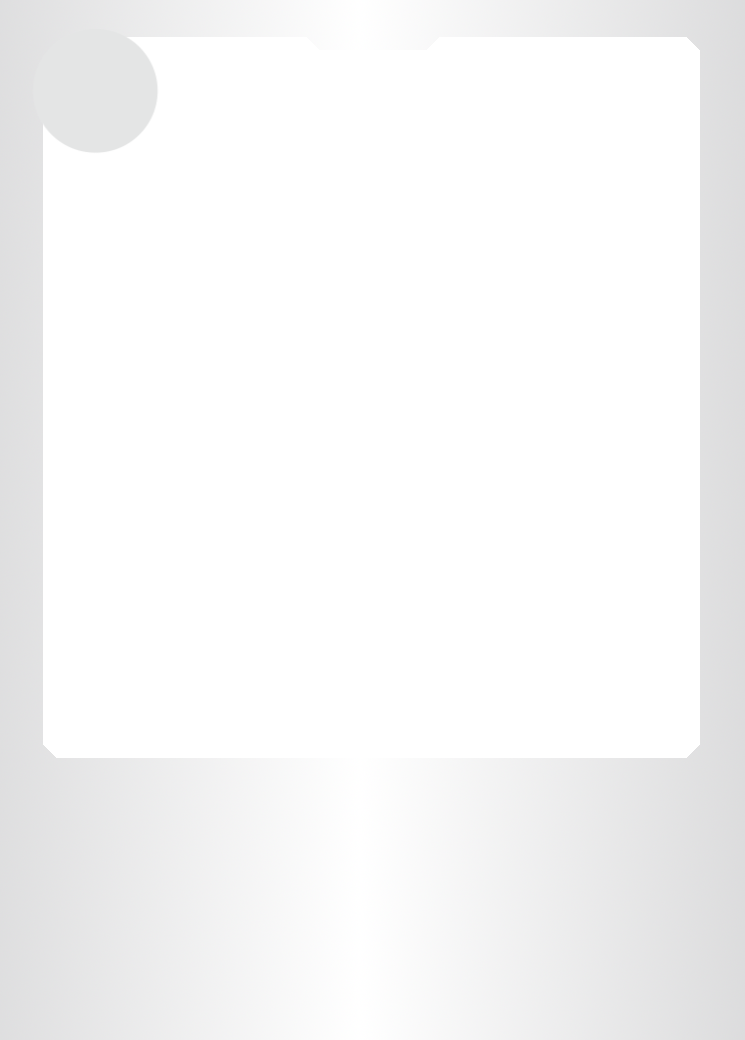
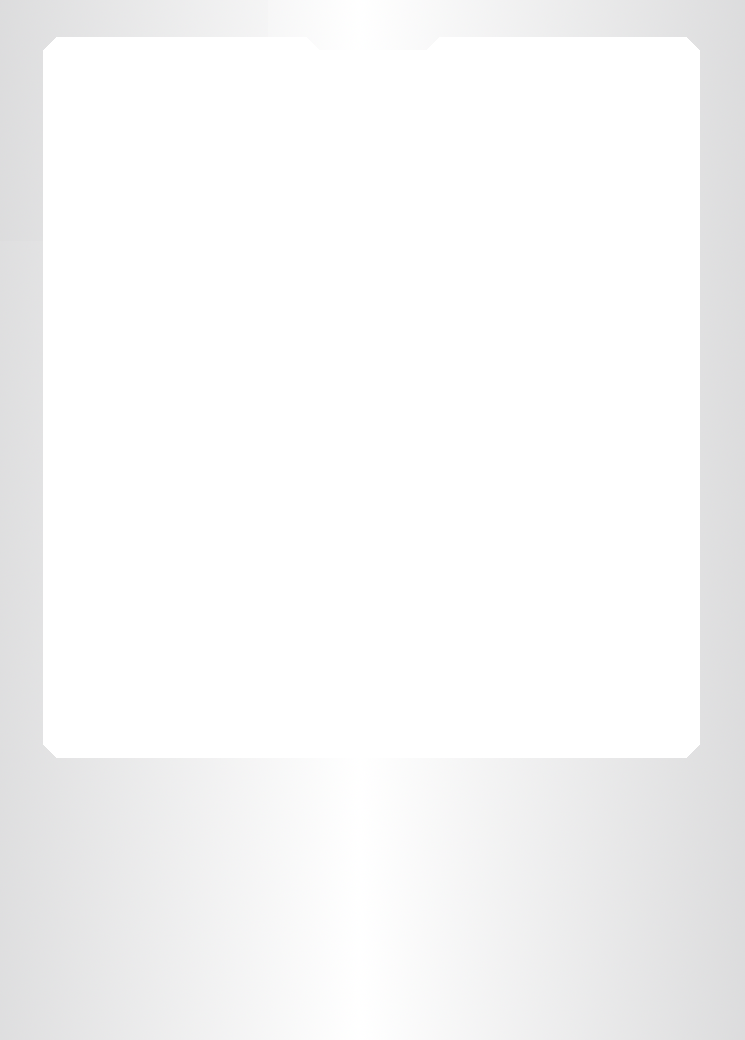
v0.8.8 no cost frames and restore images for samples

Changed region(s): [[0.0309, 0.0308, 0.2161, 0.1538]]

diff --git a/src/CustomCreator.js b/src/CustomCreator.js
@@ -1,12 +1,15 @@
 import React, { useRef, useState, useCallback, useEffect, useMemo } from 'react';
 import { eggs, basics, options, tamers, colorReplace } from './images';
 import {
-  //nocost_background, 
+
   mon_background, mega_background, egg_background, option_background, tamer_background,
+  mon_background_nocost, mega_background_nocost, egg_background_nocost, option_background_nocost, tamer_background_nocost,
+
   ace_backgrounds,
-  outlines, outlines_egg,
-  //outlines_nocost, 
-  outlines_tamer, outline_option,
+  outlines,
+  outlines_nocost, 
+  outlines_tamer, outline_option, outlines_egg,
+  outlines_tamer_nocost, outline_option_nocost, outlines_egg_nocost,
 
   cost, cost_egg, cost_option, cost_evo, cost_evo_plain, costs,
   ace_logo, foil, linkdp,
@@ -52,9 +55,10 @@ import JSZip from 'jszip';
 import { saveAs } from 'file-saver';
 
 
-const version = "0.8.7.1"
-const latest = "better show all"
+const version = "0.8.8"
+const latest = "no cost outlines for many things, kind of buggy"
 
+// version 0.8.8    no cost outlines for many things, kind of buggy
 // version 0.8.7.x  better show all
 // version 0.8.6    load images as we walk through the array
 // version 0.8.5    load images up again (but only for first image in array)
@@ -783,23 +787,29 @@ function CustomCreator() {
   const loadNetImages = async (imageOptions) => {
     let id;
     let img_args = [];
-    if ((id = imageOptions.background_url)) {
-      if (id !== (backImg && backImg.id))
+    let bgid = backImg && backImg.id;
+    if (bgid === '2') {
+      // nothing
+    } else if ((id = imageOptions.background_url)) {
+      console.error(790, bgid);
+      if (id !== bgid)
         img_args.push("background=" + imageOptions.background_url);
     } else {
-      if (backImg && backImg.src && !backImg.src.includes("placeholder")) {
+      if (backImg && backImg.src
+        && !backImg.src.includes("placeholder")) {
+        console.error(795, backImg.id);
         const img = new Image();
         img.src = placeholder;
         img.onload = () => {
           setBackImg(img);
         };
       }
-
-      //   if (backImg) 
-      //   setBackImg(null);
     }
-    if ((id = imageOptions.foreground_url)) {
-      if (id !== (foreImg && foreImg.id))
+    let fgid = foreImg && foreImg.id;
+    if (fgid === '1') { 
+        // nothing
+    } else if ((id = imageOptions.foreground_url)) {
+      if (id !== fgid)
         img_args.push("foreground=" + imageOptions.foreground_url);
     } else {
       if (foreImg)
@@ -1273,6 +1283,7 @@ function CustomCreator() {
 
       const img = new Image();
       img.src = img_src;
+      img.id = 1;
       img.onload = () => {
         console.error("foreground");
         setForeImg(img);
@@ -1281,6 +1292,7 @@ function CustomCreator() {
     if (back_src) {
       console.error("settings back");
       const img2 = new Image();
+      img2.id = 2;
       img2.src = back_src;
       img2.onload = () => {
         console.error(901, img2);
@@ -1373,11 +1385,13 @@ function CustomCreator() {
     }
 
     let modern = 1;
+    const has_cost = (json.playCost >= 0);
+    // TODO: make cost an array to avoid inline trinaries
 
     let t;
     let array = basics;
-    let cardframes = [mon_background];
-    if (modern) array = outlines;
+    let cardframes = [has_cost ? mon_background : mon_background_nocost];
+    array = has_cost ? outlines : outlines_nocost;
     let type = selectedOption;
     let overflow = undefined;
     const evo_effect = json.evolveEffect || json.digivolveEffect;
@@ -1422,13 +1436,13 @@ function CustomCreator() {
     const colors = (json && json.color && json.color.toLowerCase().split("/")) || ["red"]; // todo: better default
 
     switch (type) {
-      case "MEGA": cardframes = [mega_background]; break;
+      case "MEGA": cardframes = [has_cost ? mega_background : mega_background_nocost]; break;
       case "OPTION":
-      case "OPTIONINHERIT": cardframes = [option_background]; break;
+      case "OPTIONINHERIT": cardframes = [has_cost ? option_background : option_background_nocost]; break;
       case "TAMER":
       case "TAMERINHERIT":
-        cardframes = [tamer_background]; break;
-      case "EGG": cardframes = [egg_background]; break;
+        cardframes = [has_cost ? tamer_background : tamer_background_nocost]; break;
+      case "EGG": cardframes = [has_cost ? egg_background : egg_background_nocost]; break;
       case "LINK":
       case "MONSTER": break;
       case "ACE":
@@ -2434,14 +2448,14 @@ function CustomCreator() {
         shellImages[i].onload = shellImages[i].onerror = function () { checkAllImagesLoaded(`shell src  ${i} ${shellImages[i].src}`); }
       }
 
-
+      
       switch (type) {
         case "OPTION":
         case "OPTIONINHERIT": array = options; break;
         // how is outlines_tamer different from outlines_egg??
         case "TAMER":
-        case "TAMERINHERIT": array = modern ? outlines_tamer : tamers; break;
-        case "EGG": array = modern ? outlines_egg : eggs; break;
+        case "TAMERINHERIT": array = has_cost ? outlines_tamer : outlines_tamer_nocost; break;
+        case "EGG": array = has_cost ? outlines_egg : outlines_egg_nocost; break;
         case "MONSTER": break;
         case "MEGA": break;
         case "ACE": break;
@@ -2468,22 +2482,22 @@ function CustomCreator() {
       setNewRedraw(newRedraw + 1);
       console.debug("triggered redraw " + newRedraw);
     } else {
-      try { 
-      let obj = JSON.parse(jsonText[currentIndex]);
-      if (obj.length > 1) {
-        // we only need this if we have multiple cards
-        console.log(2734.1, "cardIndex is " + cardIndex);
-        console.log(2734.2, "gallery is " + !!galleryRef.current[cardIndex]); //  galleryRef.current[cardIndex]);
-        // doing this every time could be expensive
-        if (true || !galleryRef.current[cardIndex]) {
-          const dataUrl = canvas.toDataURL('image/png');
-          const base64Data = dataUrl;
-          updateGalleryItem(cardIndex, base64Data);
+      try {
+        let obj = JSON.parse(jsonText[currentIndex]);
+        if (obj.length > 1) {
+          // we only need this if we have multiple cards
+          console.log(2734.1, "cardIndex is " + cardIndex);
+          console.log(2734.2, "gallery is " + !!galleryRef.current[cardIndex]); //  galleryRef.current[cardIndex]);
+          // doing this every time could be expensive
+          if (true || !galleryRef.current[cardIndex]) {
+            const dataUrl = canvas.toDataURL('image/png');
+            const base64Data = dataUrl;
+            updateGalleryItem(cardIndex, base64Data);
+          }
         }
+      } catch (e) {
+        console.error("update", e);
       }
-    } catch (e) { 
-      console.error("update", e);
-    }
 
 
       pauseDraw.current = -1;
@@ -2745,8 +2759,8 @@ function CustomCreator() {
     const current_copy = cardIndex;
     const canvas = canvasRef.current;
     if (!galleryRef.current[current_copy]) {
-     // const dataUrl = canvas.toDataURL('image/png');
-     // const base64Data = dataUrl;
+      // const dataUrl = canvas.toDataURL('image/png');
+      // const base64Data = dataUrl;
       if (current_copy !== cardIndex) {
         console.log(2734, "something changed on us, 1");
         backgroundRender.current = false;
@@ -2851,7 +2865,8 @@ function CustomCreator() {
                   height: (showGallery ? 100 : height) + 'px',
                   backgroundColor: '#eef',
                   borderRadius: '20px',  // this radius is scaled differently than the one in the function
-                  overflow: 'hidden'
+                  overflow: 'hidden',
+                  display: (showGallery ? "none" : "block"),
                 }}>
               </canvas>
 
@@ -2902,7 +2917,7 @@ function CustomCreator() {
               )}
               {obj && obj.length > 1 && (
                 <span>
-                  <button onClick={null} disabled={jsonText[currentIndex].length === 0}>Delete</button>
+                  <button onClick={null} disabled={true}>Delete</button>
                   <button onClick={() => { setShowGallery(true) }}>Show All</button>
                 </span>
               )}

diff --git a/src/images.js b/src/images.js
@@ -1,10 +1,17 @@
 
-import nocost_background from './frames/background_nocost.png';
+
+
 import mon_background from './frames/background_digimon_evo.png';
 import mega_background from './frames/background_digimon.png';
 import egg_background from './frames/background_egg.png';
 import option_background from './frames/background_option.png';
 import tamer_background from './frames/background_tamer.png';
+
+import mon_background_nocost from './frames/background_digimon_evo_nocost.png';
+import mega_background_nocost from './frames/background_digimon_nocost.png';
+import egg_background_nocost from './frames/background_egg_nocost.png';
+import option_background_nocost from './frames/background_option_nocost.png';
+import tamer_background_nocost from './frames/background_tamer_nocost.png';
 
 import ace_red from './frames/backgrounds/red-ace.png';
 import ace_blue from './frames/backgrounds/blue-ace.png';
@@ -124,6 +131,15 @@ import outline_purple from './frames/outline-purple.png';
 import outline_black from './frames/outline-black.png';
 import outline_white from './frames/outline-white.png';
 
+import outline_red_nocost from './frames/outline-red_nocost.png';
+import outline_blue_nocost from './frames/outline-blue_nocost.png';
+import outline_yellow_nocost from './frames/outline-yellow_nocost.png';
+import outline_green_nocost from './frames/outline-green_nocost.png';
+import outline_purple_nocost from './frames/outline-purple_nocost.png';
+import outline_black_nocost from './frames/outline-black_nocost.png';
+import outline_white_nocost from './frames/outline-white_nocost.png';
+
+
 import outline_option from './frames/outline-option.png';
 
 import outline_egg_red from './frames/new-egg-red.png';
@@ -133,6 +149,15 @@ import outline_egg_green from './frames/new-egg-green.png';
 import outline_egg_purple from './frames/new-egg-purple.png';
 import outline_egg_black from './frames/new-egg-black.png';
 import outline_egg_white from './frames/new-egg-white.png';
+
+import outline_egg_red_nocost from'./frames/new-egg-red_nocost.png';
+import outline_egg_blue_nocost from'./frames/new-egg-blue_nocost.png';
+import outline_egg_yellow_nocost from'./frames/new-egg-yellow_nocost.png';
+import outline_egg_green_nocost from'./frames/new-egg-green_nocost.png';
+import outline_egg_purple_nocost from'./frames/new-egg-purple_nocost.png';
+import outline_egg_black_nocost from'./frames/new-egg-black_nocost.png';
+import outline_egg_white_nocost from'./frames/new-egg-white_nocost.png';
+
 
 //import outline_nocost_red from './frames/new-nocost-red.png';
 //import outline_nocost_blue from './frames/new-nocost-blue.png';
@@ -152,6 +177,13 @@ import outline_tamer_purple from './frames/tamer/outline-tamer-purple.png';
 import outline_tamer_black from './frames/tamer/outline-tamer-black.png';
 import outline_tamer_white from './frames/tamer/outline-tamer-white.png';
 
+import outline_tamer_red_nocost from './frames/tamer/outline-tamer-red_nocost.png';
+import outline_tamer_blue_nocost from './frames/tamer/outline-tamer-blue_nocost.png';
+import outline_tamer_yellow_nocost from './frames/tamer/outline-tamer-yellow_nocost.png';
+import outline_tamer_green_nocost from './frames/tamer/outline-tamer-green_nocost.png';
+import outline_tamer_purple_nocost from './frames/tamer/outline-tamer-purple_nocost.png';
+import outline_tamer_black_nocost from './frames/tamer/outline-tamer-black_nocost.png';
+import outline_tamer_white_nocost from './frames/tamer/outline-tamer-white_nocost.png';
 
 
 
@@ -368,7 +400,8 @@ let pen_img = new Image(); pen_img.src = pen;
 
 // these backgrounds are used all the time and should be pre-loaded
 export {
-  nocost_background, mon_background, mega_background, egg_background, option_background, tamer_background,
+  mon_background, mega_background, egg_background, option_background, tamer_background,
+  mon_background_nocost, mega_background_nocost, egg_background_nocost, option_background_nocost, tamer_background_nocost,
   cost, cost_egg, cost_option, cost_evo, cost_evo_plain,
   outline_option, ace_logo,
   bottom_property_white, bottom_property_black,
@@ -396,6 +429,15 @@ export const outlines = {
   'black': outline_black,
   'white': outline_white,
 }
+export const outlines_nocost = {
+  'red': outline_red_nocost,
+  'blue': outline_blue_nocost,
+  'yellow': outline_yellow_nocost,
+  'green': outline_green_nocost,
+  'purple': outline_purple_nocost,
+  'black': outline_black_nocost,
+  'white': outline_white_nocost,
+}
 
 export const outlines_egg = {
   'red': outline_egg_red,
@@ -407,7 +449,18 @@ export const outlines_egg = {
   'white': outline_egg_white,
 }
 
-export const outlines_nocost = {
+export const outlines_egg_nocost = {
+  'red': outline_egg_red_nocost,
+  'blue': outline_egg_blue_nocost,
+  'yellow': outline_egg_yellow_nocost,
+  'green': outline_egg_green_nocost,
+  'purple': outline_egg_purple_nocost,
+  'black': outline_egg_black_nocost,
+  'white': outline_egg_white_nocost,
+}
+
+
+export const DELETE_outlines_nocost = {
   /*
   'red': outline_nocost_red,
   'blue': outline_nocost_blue,
@@ -428,6 +481,15 @@ export const outlines_tamer = {
   'purple': outline_tamer_purple,
   'black': outline_tamer_black,
   'white': outline_tamer_white,
+}
+export const outlines_tamer_nocost = {
+  'red': outline_tamer_red_nocost,
+  'blue': outline_tamer_blue_nocost,
+  'yellow': outline_tamer_yellow_nocost,
+  'green': outline_tamer_green_nocost,
+  'purple': outline_tamer_purple_nocost,
+  'black': outline_tamer_black_nocost,
+  'white': outline_tamer_white_nocost,
 }
 
 export const effectboxes = {
